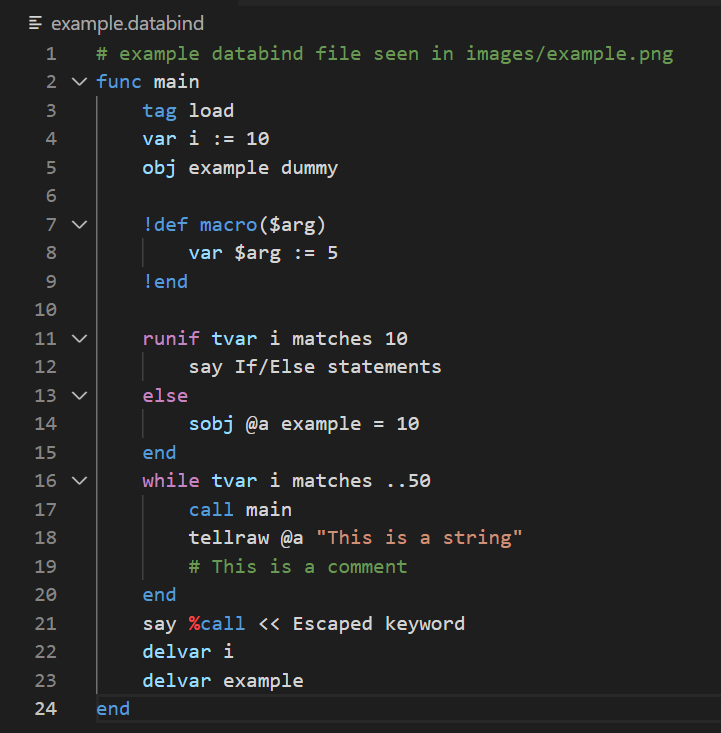
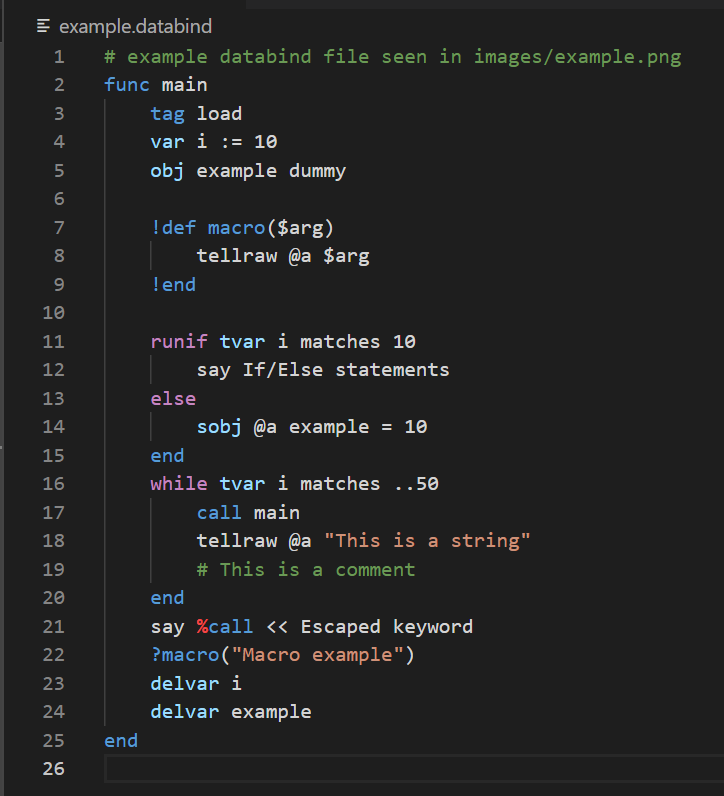
Release v0.2.0
Release v0.2.0, see CHANGELOG.md for more details

Changed region(s): [[0.0, 0.0, 0.9459, 1.0], [0.2136, 0.2701, 0.5187, 0.3902]]

diff --git a/README.md b/README.md
@@ -14,13 +14,13 @@ NOTICE: This extension is very early in development.
 
 
 
-![Syntax Highlighting for](images/example.png)
+![Syntax highlighting for Databind](images/example.png)
 
 ## Installation
 
 For now to install the extension:
 
-1. Clone the repository or download the zip
+1. Clone the repository or download and extract the zip
 2. Put the extension folder in your /Users/[USERNAME]/.vscode/extenstions folder
 3. Load VS Code
 4. Remember to switch the syntax in VS Code from plain text to Databind!

diff --git a/CHANGELOG.md b/CHANGELOG.md
@@ -1,5 +1,21 @@
 # Change Log
 
+## v0.2 (2021/08/18)
+
+### Additions
+- Quotation marks auto-close
+- Extension icon
+
+### Changes
+- Updated the preview image in README.md
+- Much more information in package.json (what you will see in the extensions section of VS Code)
+- Updated installation instructions
+
+### Fixes
+- One too many zeros in the version number
+- Improper databind syntax in the example image
+- Spelling error in README.md
+
 ## Initial Release (v.0.1 - 2021/08/14)
 
 ### Features:
